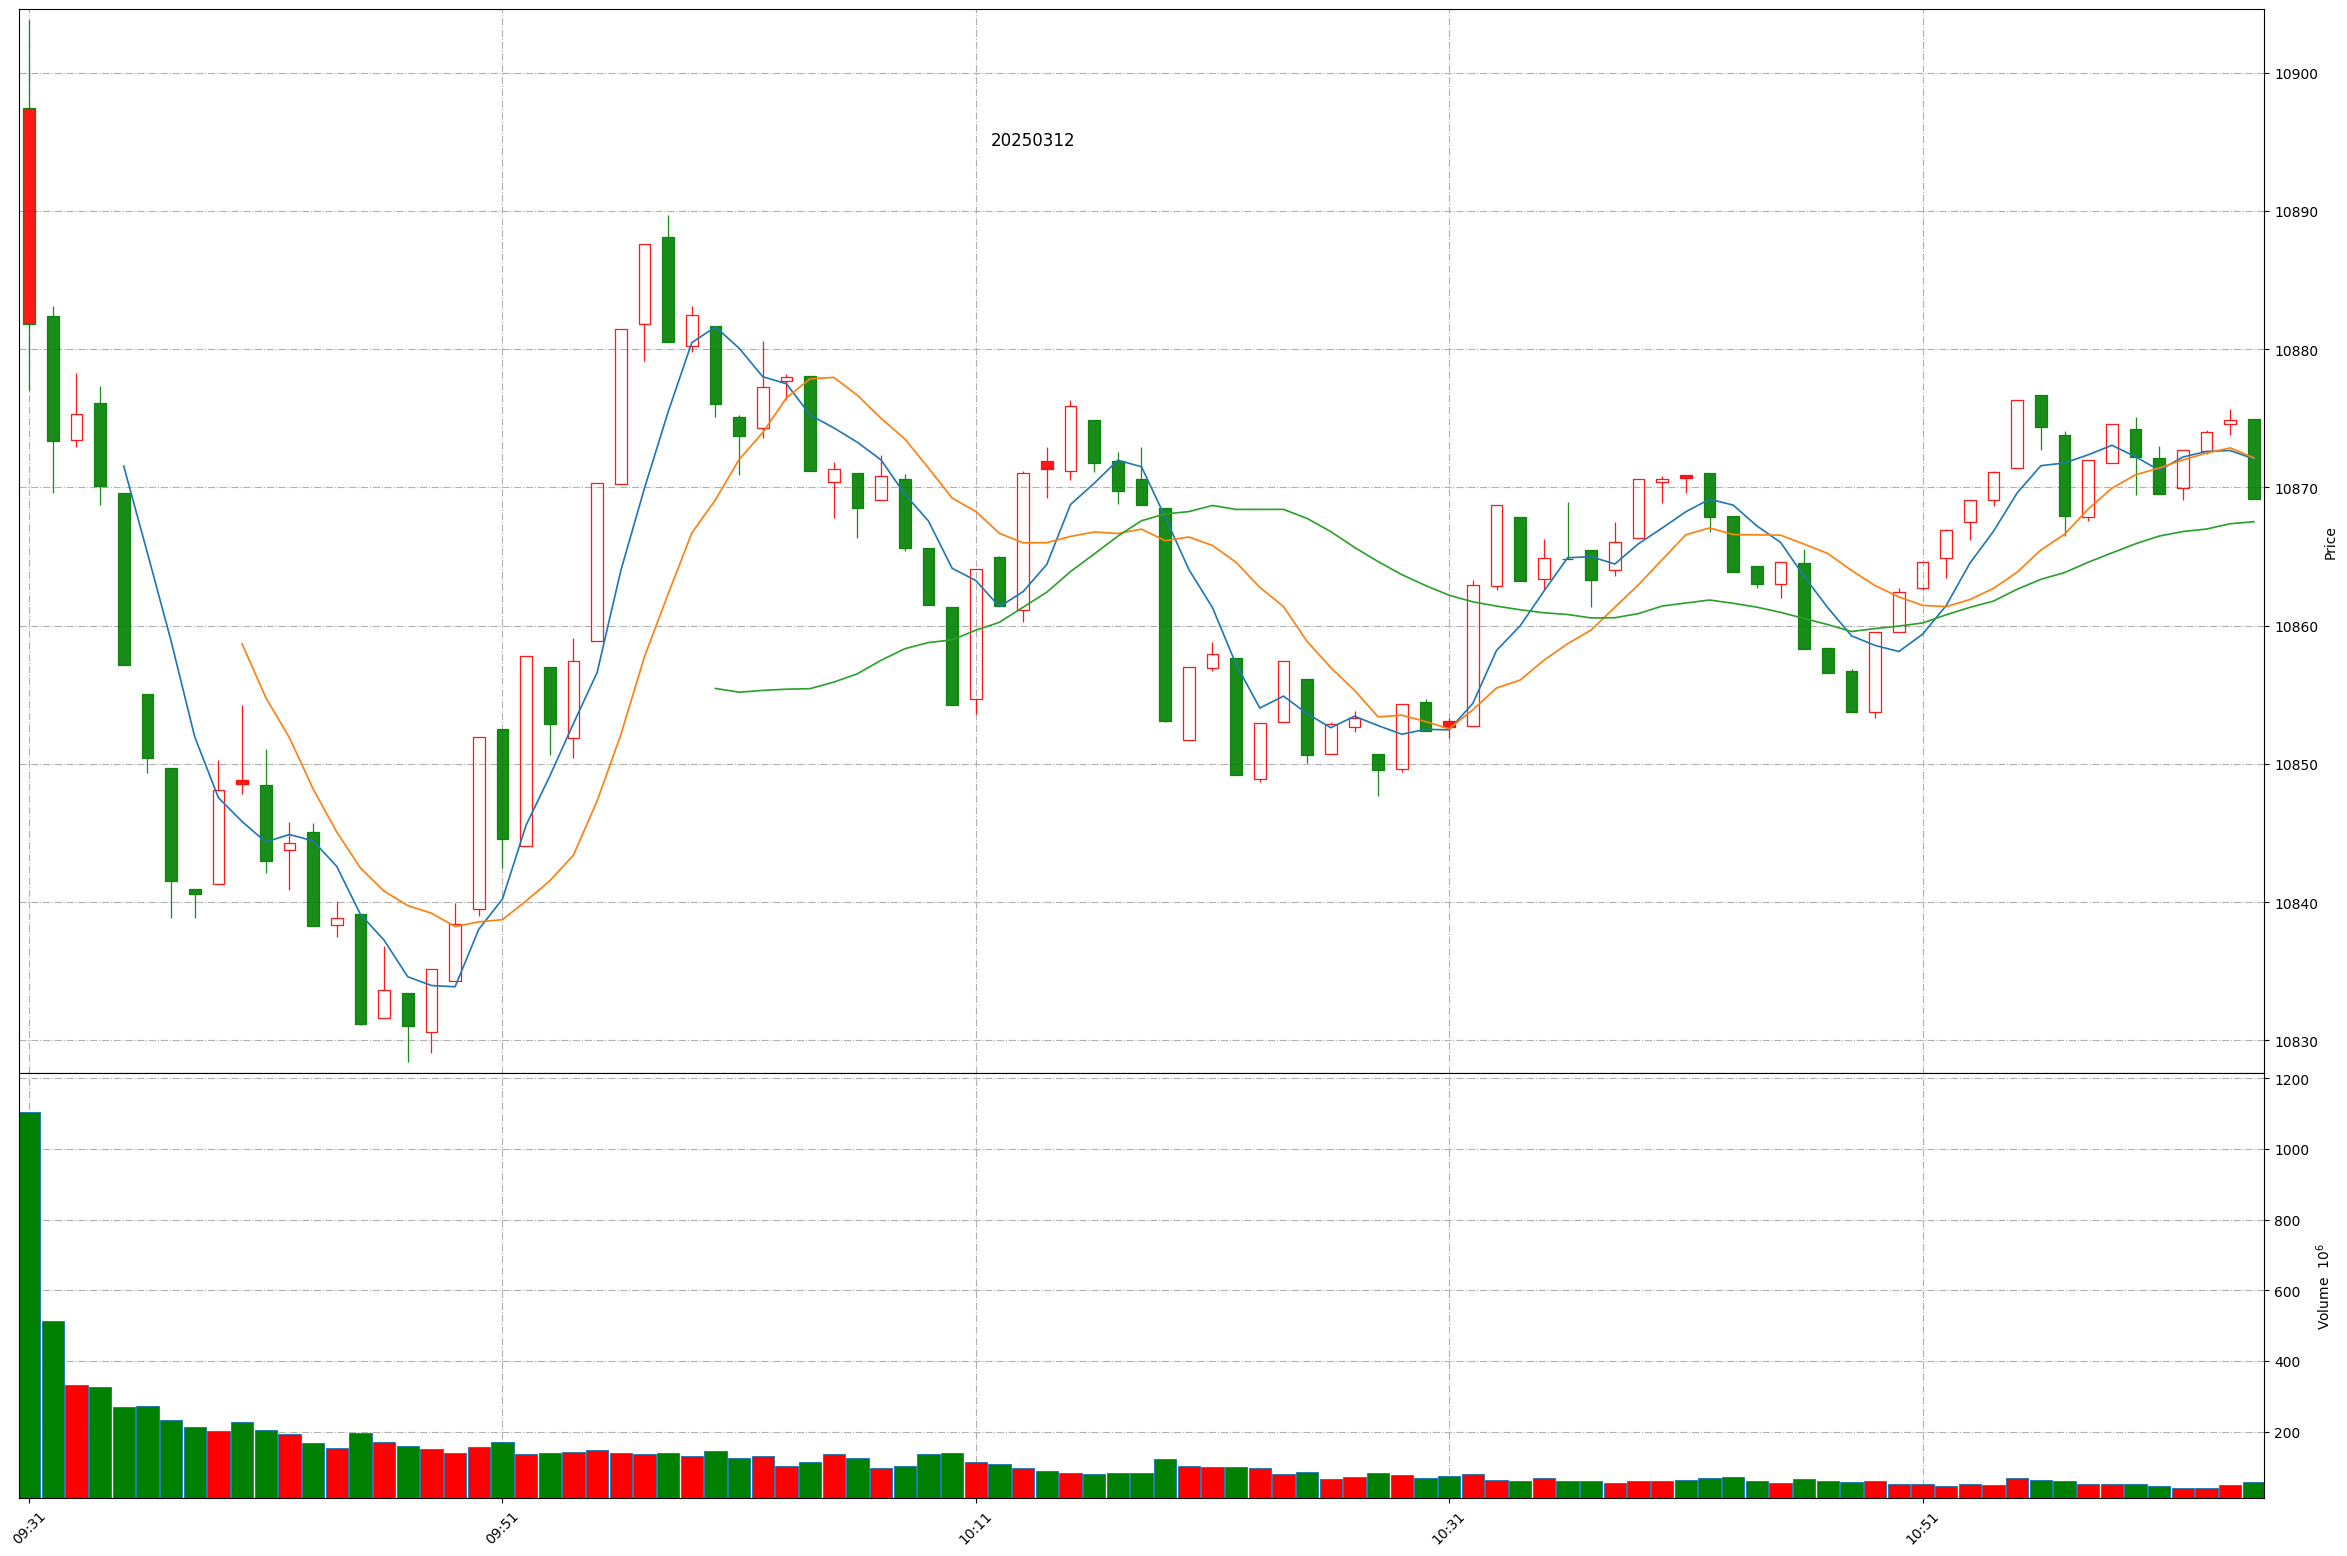
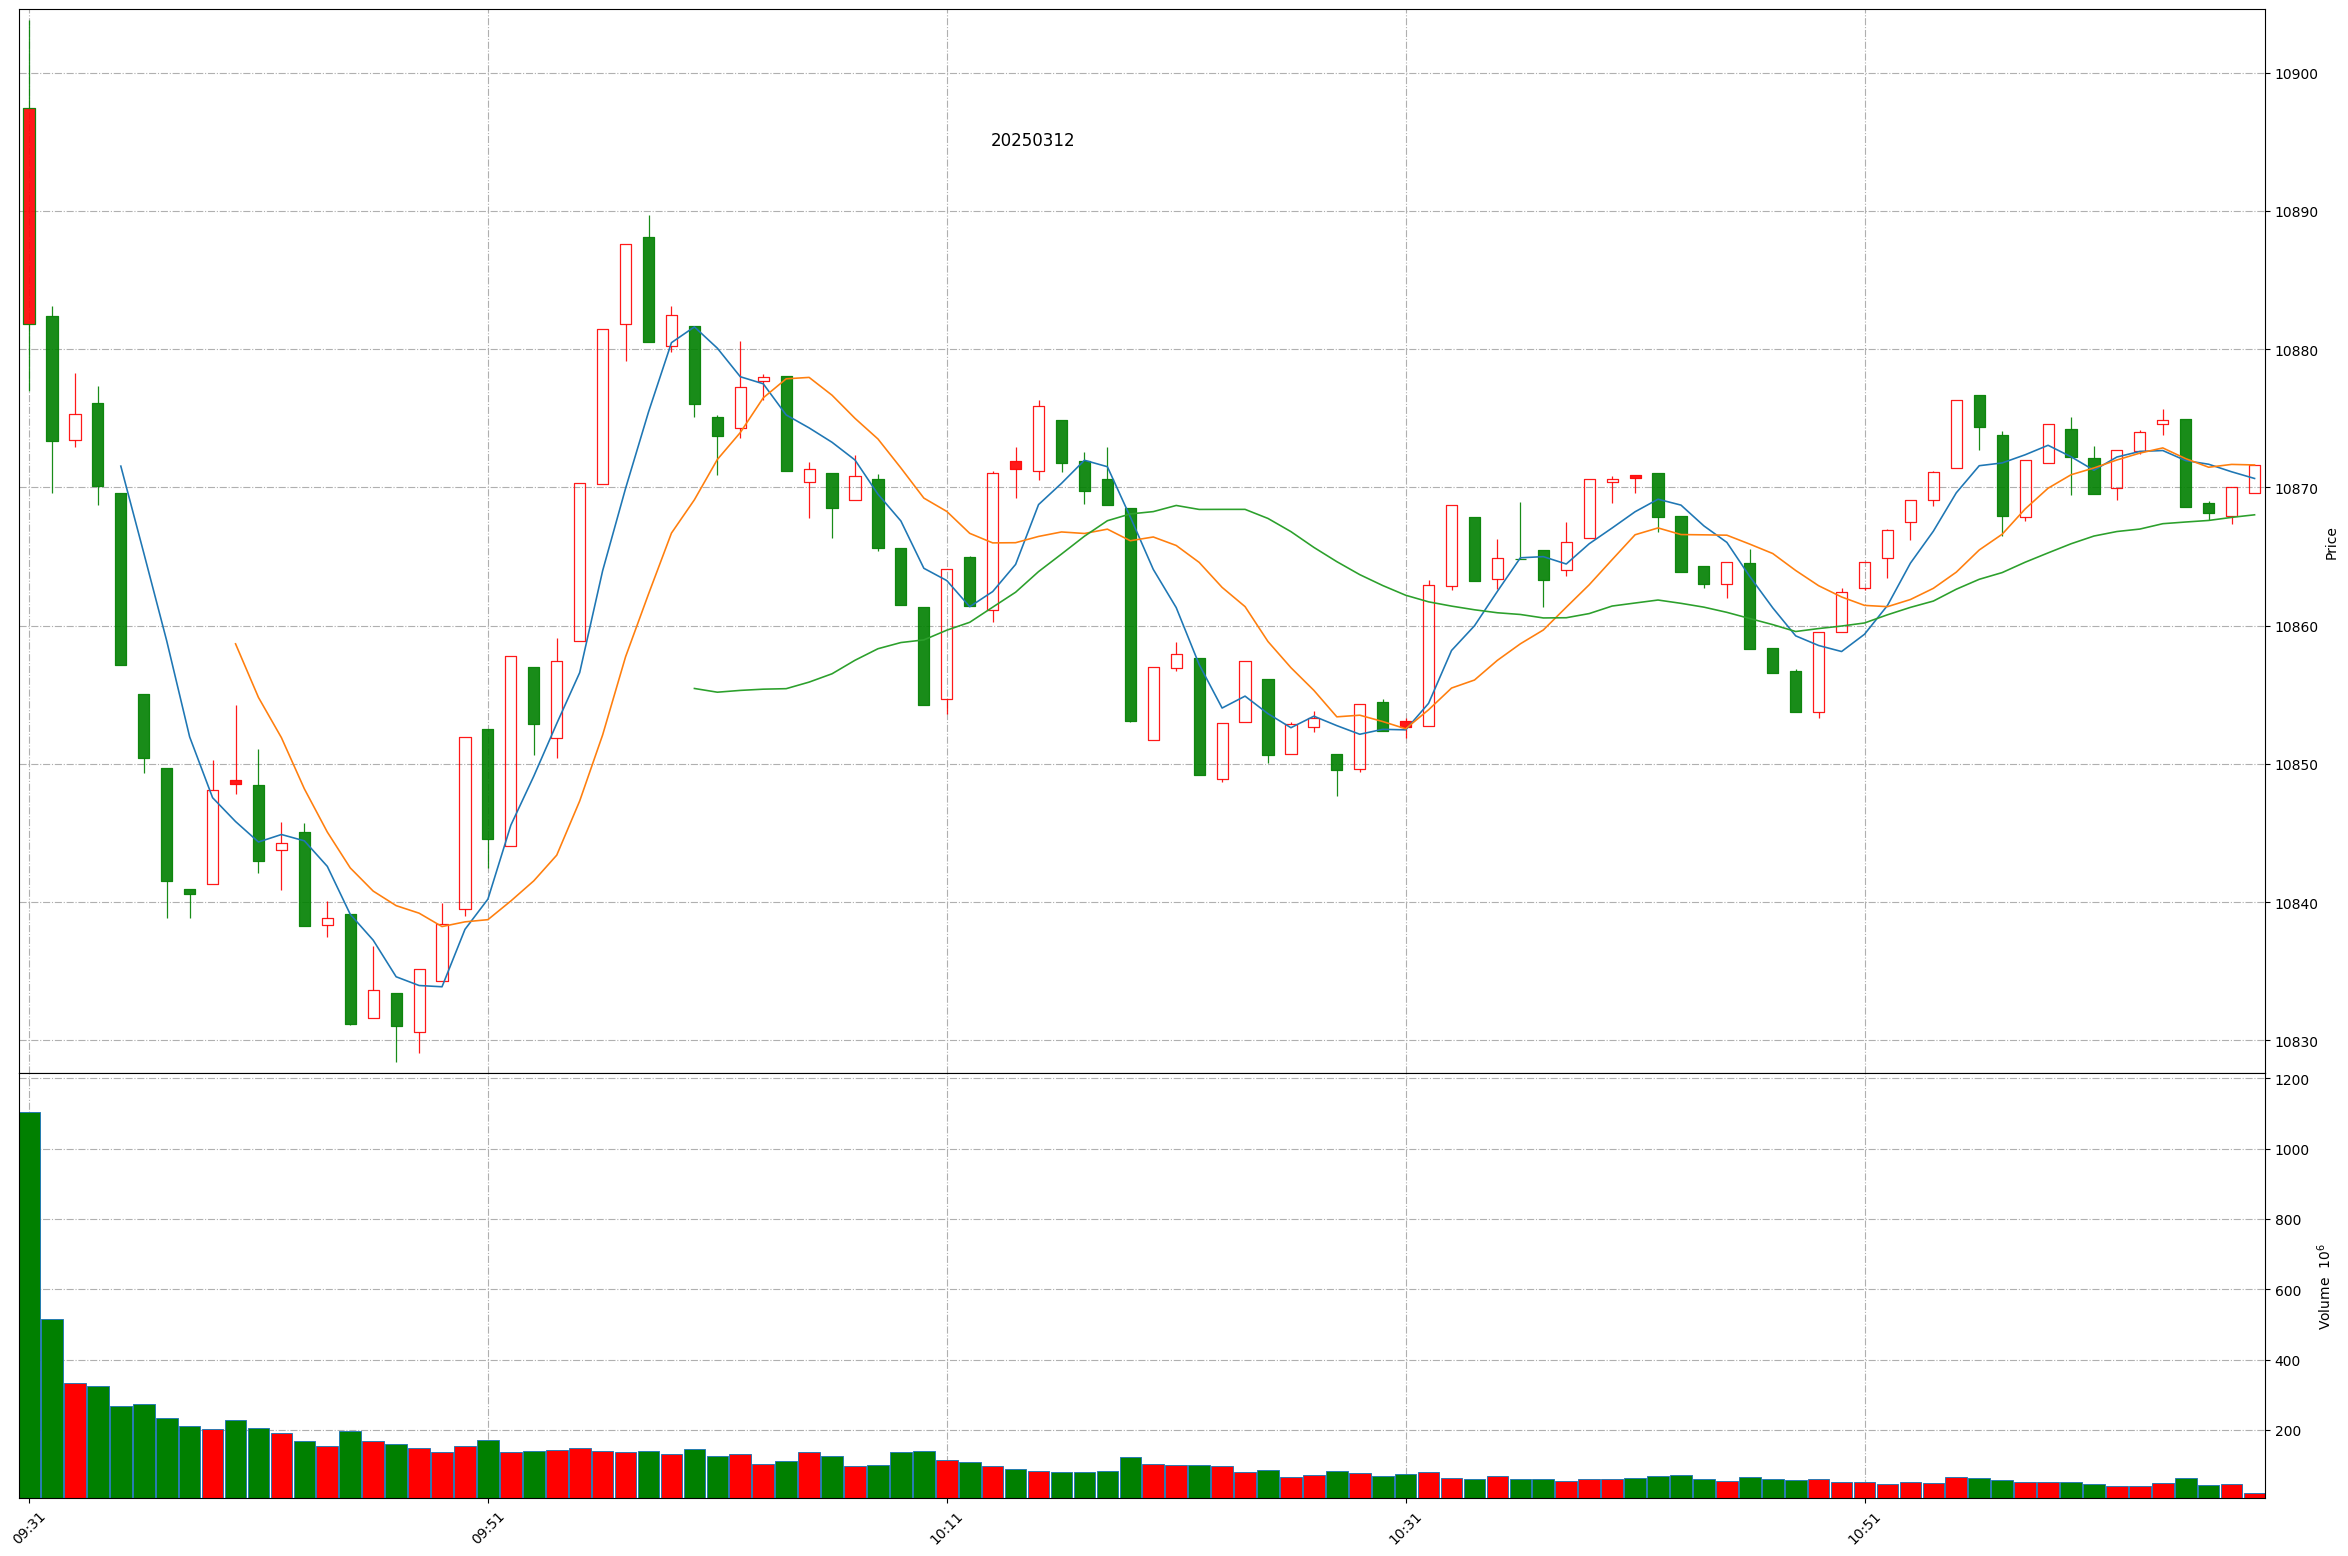
Github action update at 2025-03-12 11:07:29.

Changed region(s): [[0.0622, 0.1542, 0.9642, 0.6787], [0.0311, 0.8946, 0.9642, 0.9871], [0.0311, 0.2468, 0.0622, 0.4319]]

diff --git a/README.md b/README.md
@@ -1,11 +1,11 @@
 
 # Daily-A-share-market-quotes 每日 A 股指数（5min 更新）- 20250312
 
-### 上证指数 20250312 11:4
+### 上证指数 20250312 11:7
 ![](./fig/2025/3/20250312-sh000001.png)
 
-### 深证成指 20250312 11:4
+### 深证成指 20250312 11:7
 ![](./fig/2025/3/20250312-sz399001.png)
 
-### 北证50 20250312 11:4
+### 北证50 20250312 11:7
 ![](./fig/2025/3/20250312-bj899050.png)
